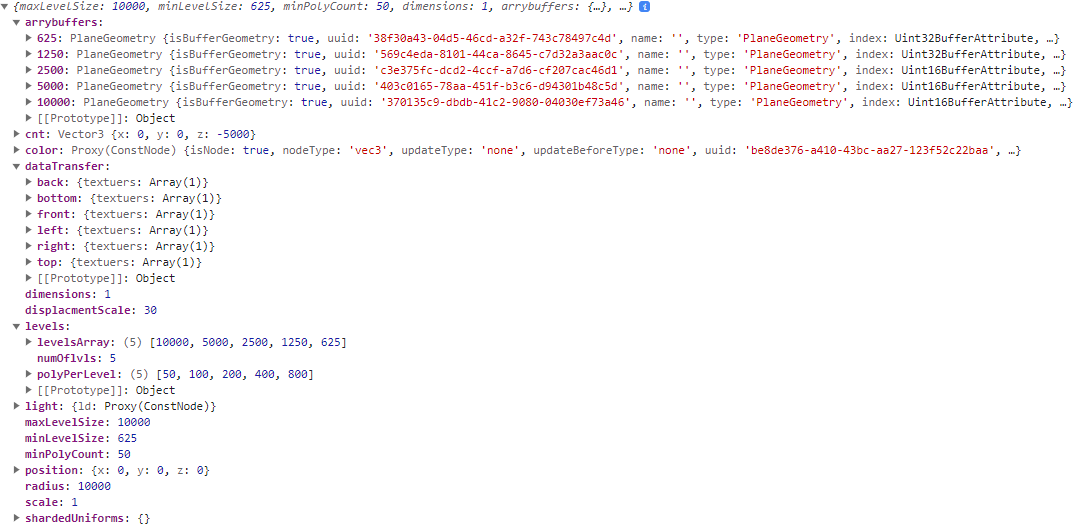
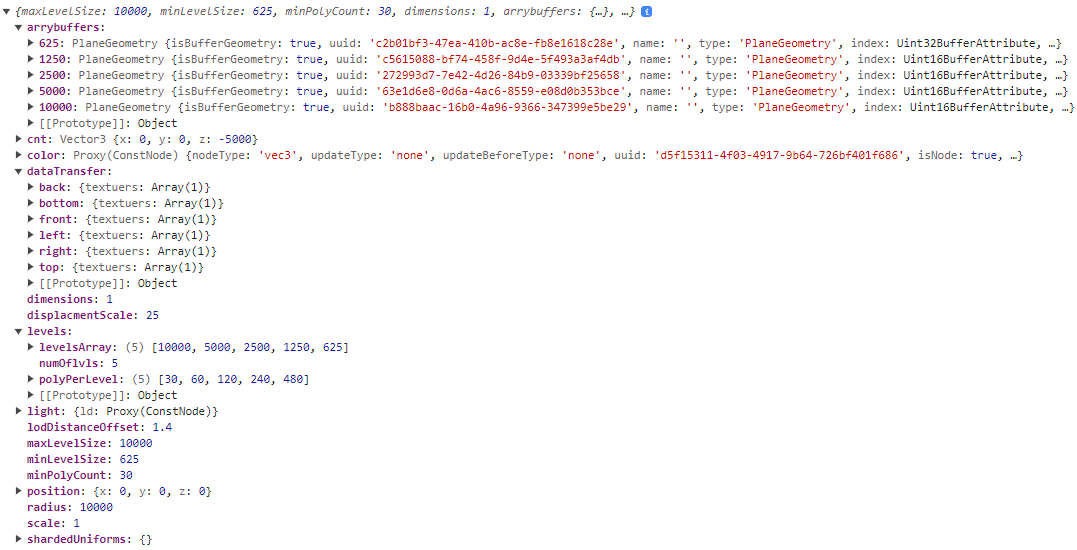
read me

Changed region(s): [[0.0, 0.0, 1.0, 1.0]]

diff --git a/src/lib/viewGL.js b/src/lib/viewGL.js
@@ -53,9 +53,9 @@ class ViewGL {
       widthSegment:      30,
       heightSegment:     30,
       quadTreeDimensions: 1,
-      levels:             1,
+      levels:             5,
       radius:         10000,
-      displacmentScale:  0,
+      displacmentScale:  25,
       lodDistanceOffset:1.4,
       //color: () => NODE.vec3(...hexToRgbA(getRandomColor())),
     })

diff --git a/README.md b/README.md
@@ -46,7 +46,7 @@ Download and run the project. Go to http://localhost:3001/. The file for the dem
 ## Specs
 - Recommended GPU is GTX 1060 and above.
 
-## How It Works
+# How It Works
 The PlanettechJS repository contains two libraries: PlanetTech itself and CubeMap. Both PlanetTech and CubeMap are built using ThreeJS experimental NodeMaterial.
 Additionally, PlanetTech requires you to use the `render` object. With the `render` object, you can switch between the **WebGL**: `render.WebGLRenderer(canvasViewPort)` and **WebGPU**: `render.WebGPURenderer(canvasViewPort)`. You should stick with WebGL because WebGPU is still very experimental in ThreeJS and can cause issues with each version update.
 
@@ -125,7 +125,7 @@ To get a better understanding of the `levels` parameter, let's take a look at a 
 ![quad Sphere](./public/readmeImg/img4.jpg)
 
 
-## CubeMap
+# CubeMap
 ⚠ **Disclaimer:** CubeMap isn't optimized yet; increasing the grid size or resolution to a large amount can cause the renderer to crash and may result in a lost context. You have to find a balance between visual appeal and performance. Additionally, in some cases, the normal map can create seams between each face of the texture, which can break immersion for the user. Sometimes, these seams can be ignored because they are negligible.
 
 To build something the resembles a planet, PlanetTechJS comes with an experimental feature called [CubeMap](./src/lib/cubeMap). CubeMap allows users to create procedurally generated cube textures that return displacement maps or normal maps. CubeMap can generate displacement and normal maps in tangent space, as well as analytical noise derivatives that generate world space normal maps. CubeMap works by dividing the noise space into a tiled NxN grid, setting the resolution for each tile, allowing the camera to capture more detailed snapshots, resulting in better quality images.
@@ -267,3 +267,24 @@ planet.light   (NODE.vec3(0.0,20.0,20.0))
 let quads = planet.getAllInstance()
 rend.scene_.add(planet.sphere);
 ```
+
+# Debugging
+For debugging Calling `Sphere.log()` method returns an object that contains all the important data for the Sphere engine. This data is what's being shared to instruct the quadtree on what to do. Here, you can see the data we generated for our planet.
+
+<p align="center">
+  <img src="./public/readmeImg/log.png" />
+</p>
+
+- `arrayBuffers` contains all the geometry for each level, with the key being the dimensions of the mesh.
+- `cnt` represents the center of our sphere.
+- `color` is the default color.
+- `dataTransfer` holds our textures for each face of the planet.
+- `dimensions` is the number of dimensions for each face.
+- `displacementScale` for our texture.
+- `levels` holds `levelsArray`, with each item representing the dimensions of the mesh at each level. `polyPerLevel` tells you the polygon count of the mesh at each level.
+- `maxLevelSize` represents the largest mesh size.
+- `minLevelSize` represents the smallest mesh size.
+- `minPolyCount` represents the smallest polygon count.
+- `position` is the position of the planet.
+- `radius` is the radius of the planet.
+- `scale` is the scale of the planet.
